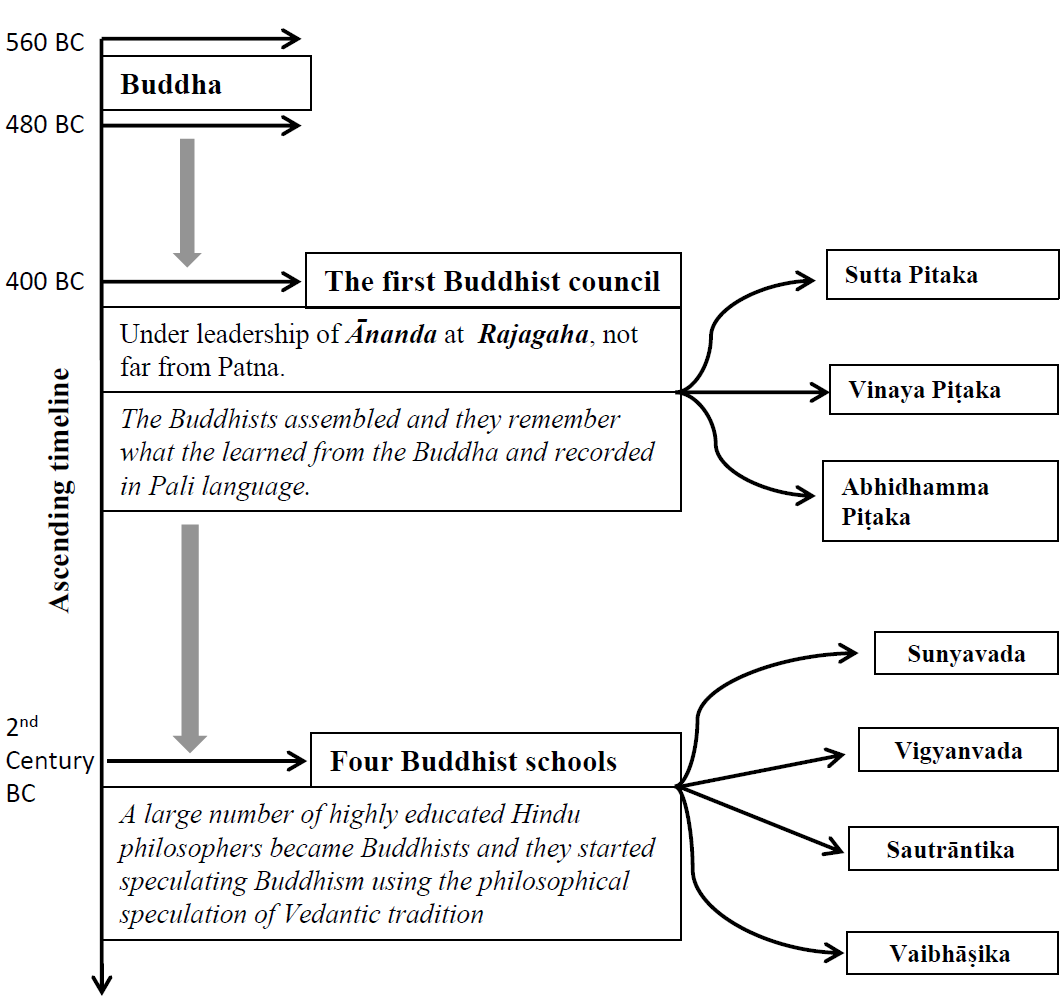
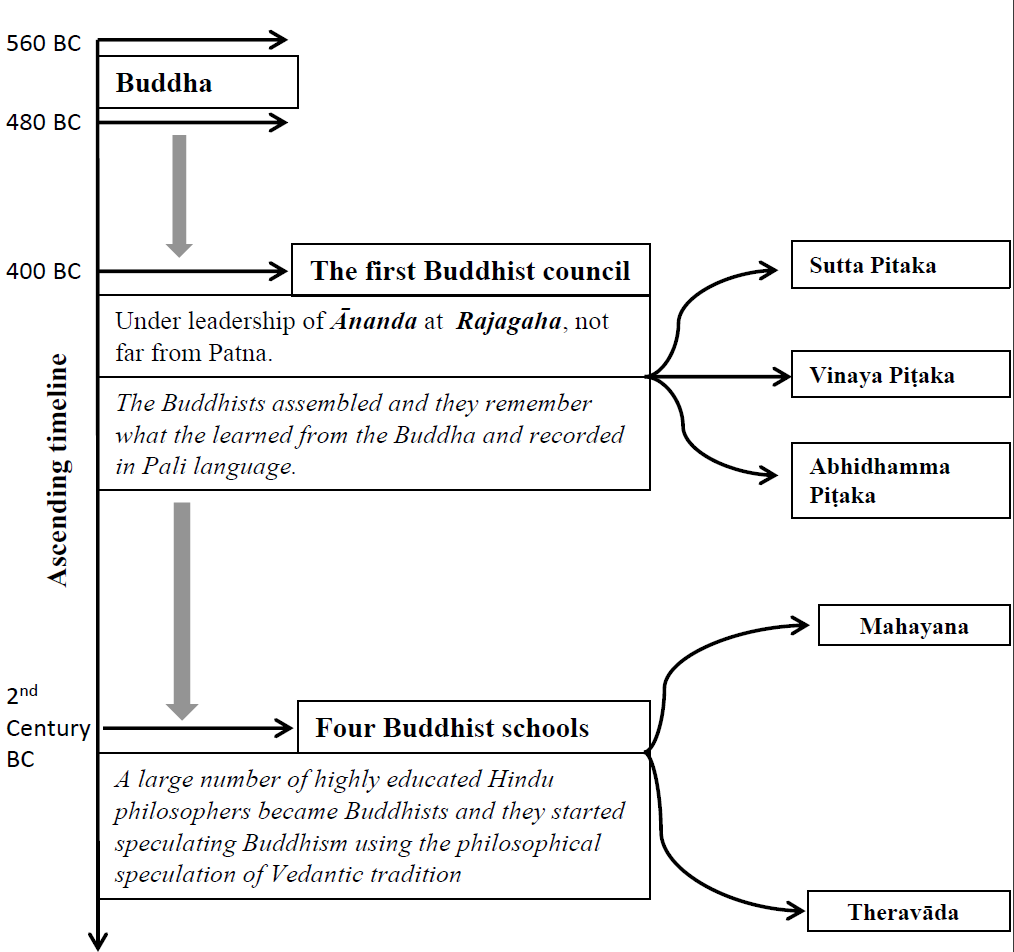
indian philosophy added

diff --git a/docs/posts/16_01_2022-my-work.md b/docs/posts/16_01_2022-my-work.md
@@ -45,7 +45,7 @@ Any book on Indian Philosophy refers to twelve distinct systems of philosophy in
 <p>
 </p>
 
-<img src="../img/Ashtika_Nastika.png" alt="Astiak_Naskita Mini" style="width:800px;height:300px;">
+<img src="../img/Ashtika_Nastika.png" alt="Astiak_Naskita Mini" style="width:800px;height:250px;">
 <p>
 </p>
 
@@ -70,4 +70,32 @@ Any book on Indian Philosophy refers to twelve distinct systems of philosophy in
 <p>
 </p>
 
-<img src="../img/Ashtika_Nastika_extended.png" alt="Astiak_Naskita Big" style="width:800px;height:600px;">
+<img src="../img/Ashtika_Nastika_extended.png" alt="Astiak_Naskita Big" style="width:800px;height:500px;">
+
+<p>
+</p>
+<p>
+</p>
+<p>
+</p>
+
+### <span style="color:red"> **The Origin of the Four Schools of Buddhism** </span>
+
+<p>Before talking elaborately about the four schools of Buddhism that emerged in India long after Buddha’s passing, we must understand that The Buddha was not concerned about the metaphysics or philosophy, his system of teaching was purely based on a desire. A desire to see people living a good life in this world. His teachings were not concerned on life after death.</p>
+
+<p>We can divide Buddhism into two stages as (1) Early (2) Later developements in Buddhism. Which is illustrated in following:</p>
+
+<p>
+</p>
+
+<img src="../img/four_buddhist_schools.png" alt="Four Buddhist Schools" style="width:800px;height:500px;">
+
+<p>
+</p>
+
+<p> Among the Four Buddhist Schools <b>Sautrāntika and Vaibhāṣika are part of Theravāda</b> whereas <b>Sunyavada and Vigyanvada (or Yogachara ) are part of Mahayana</b> as depicted in the following:
+
+<p>
+</p>
+
+<img src="../img/four_buddhist_schools_extended.png" alt="Four Buddhist Schools Extended" style="width:800px;height:500px;">
